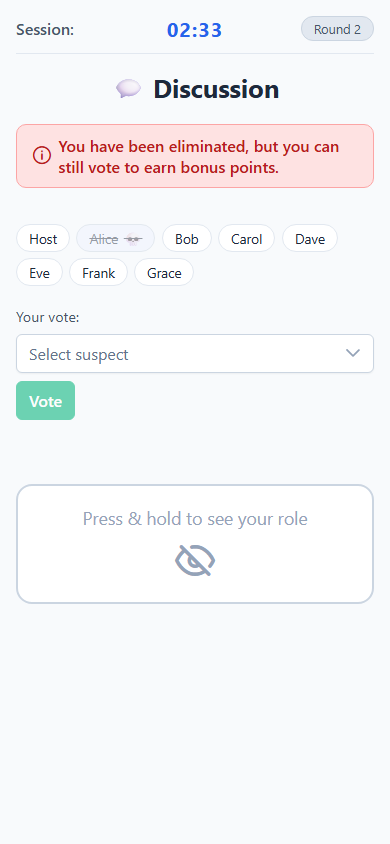
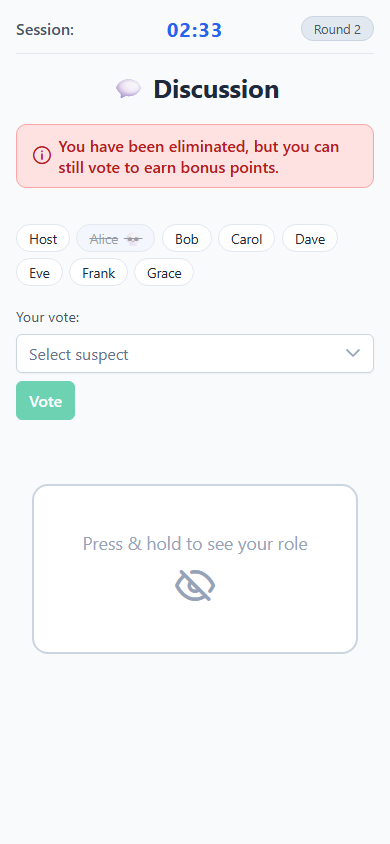
Improve things

diff --git a/frontend/werewolves-app/src/app/components/session/session.spec.ts b/frontend/werewolves-app/src/app/components/session/session.spec.ts
@@ -283,7 +283,8 @@ describe('SessionComponent', () => {
 
       const targets = component.voteTargets;
 
-      expect(targets.length).toBe(2, 'Alice should see exactly 2 options (Bob and Carol)');
+      expect(targets.length).toBe(3, 'Alice should see exactly 3 options (No vote, Bob, Carol)');
+      expect(targets.map(t => t.value)).toContain('');
       expect(targets.map(t => t.value)).toContain('player2');
       expect(targets.map(t => t.value)).toContain('player3');
       expect(targets.map(t => t.value)).not.toContain('player1', 'a player cannot vote for themselves');
@@ -302,7 +303,8 @@ describe('SessionComponent', () => {
 
       const targets = component.voteTargets;
 
-      expect(targets.length).toBe(3, 'non-tied Alice should see all 3 tied candidates');
+      expect(targets.length).toBe(4, 'non-tied Alice should see all 3 tied candidates plus No vote');
+      expect(targets.map(t => t.value)).toContain('');
       expect(targets.map(t => t.value)).toContain('player2');
       expect(targets.map(t => t.value)).toContain('player3');
       expect(targets.map(t => t.value)).toContain('player4');

diff --git a/frontend/werewolves-app/src/app/components/session/session.ts b/frontend/werewolves-app/src/app/components/session/session.ts
@@ -274,9 +274,10 @@ export class SessionComponent implements OnInit, OnDestroy {
         .map(p => ({ label: p.displayName, value: p.playerId }));
     }
 
-    return this.alivePlayers
+    const playerOptions = this.alivePlayers
       .filter(p => p.playerId !== this.playerId && (!candidates || candidates.includes(p.playerId)))
       .map(p => ({ label: p.displayName, value: p.playerId }));
+    return [{ label: '— No vote —', value: '' }, ...playerOptions];
   }
 
   get doneCount(): number {
@@ -375,7 +376,7 @@ export class SessionComponent implements OnInit, OnDestroy {
   }
 
   submitVote(): void {
-    if (!this.selectedVoteTarget) return;
+    if (this.selectedVoteTarget === null) return;
     this.gameService.castVote(this.gameId, this.playerId, this.selectedVoteTarget).subscribe({
       next: () => {
         this.hasVotedThisPhase = true;

diff --git a/frontend/werewolves-app/src/app/components/session/session.scss b/frontend/werewolves-app/src/app/components/session/session.scss
@@ -161,7 +161,7 @@
   background: #1e293b;
   border: 2px solid #334155;
   border-radius: 16px;
-  min-height: 220px;
+  min-height: 170px;
   display: flex;
   align-items: center;
   justify-content: center;
@@ -196,7 +196,7 @@
   }
 
   .role-name {
-    font-size: 2.2rem;
+    font-size: 1.8rem;
     font-weight: 800;
     letter-spacing: 0.05em;
     text-transform: uppercase;
@@ -205,7 +205,7 @@
   }
 
   .skill-name {
-    font-size: 1rem;
+    font-size: 1.25rem;
     color: #a78bfa;
     text-transform: uppercase;
     letter-spacing: 0.05em;
@@ -222,8 +222,9 @@
 }
 
 .role-card-compact {
-  min-height: 120px;
   margin-top: 1.5rem;
+  margin-left: 1rem;
+  margin-right: 1rem;
 }
 
 .ready-section {

diff --git a/frontend/werewolves-app/src/app/models/audio-keys.ts b/frontend/werewolves-app/src/app/models/audio-keys.ts
@@ -38,7 +38,7 @@ export interface AudioClipConfig {
 
 export const PhaseAudio: { [phase: string]: AudioClipConfig[] } = {
   RoleReveal: [
-    { key: AudioKey.RoleReveal, forCreatorOnly: false },
+    { key: AudioKey.RoleReveal, forCreatorOnly: true },
   ],
   NightAnnouncement: [
     { key: AudioKey.NightAnnouncement, forCreatorOnly: false },
@@ -50,7 +50,7 @@ export const PhaseAudio: { [phase: string]: AudioClipConfig[] } = {
     { key: AudioKey.CupidCloseEyes, forCreatorOnly: true },
   ],
   LoverReveal: [
-    { key: AudioKey.LoverReveal, forCreatorOnly: false },
+    { key: AudioKey.LoverReveal, forCreatorOnly: true },
   ],
   SeerTurn: [
     { key: AudioKey.SeerTurn, forCreatorOnly: true },

diff --git a/frontend/werewolves-app/src/app/components/session/session.html b/frontend/werewolves-app/src/app/components/session/session.html
@@ -309,7 +309,7 @@
       <p-button
         label="Vote"
         (onClick)="submitVote()"
-        [disabled]="!selectedVoteTarget"
+        [disabled]="selectedVoteTarget === null"
         styleClass="mt-2">
       </p-button>
     </div>

diff --git a/backend/WerewolvesAPI.Tests/GameServiceTests.cs b/backend/WerewolvesAPI.Tests/GameServiceTests.cs
@@ -420,6 +420,27 @@ public class GameServiceTests
     }
 
     [Fact]
+    public void CastVote_WithEmptyTargetId_DuringDiscussion_ShouldRetractVote()
+    {
+        var game = CreateReadyGame();
+        _gameService.StartGame(game.TournamentCode, game.CreatorId);
+        MarkAllAliveDone(game.TournamentCode); // → WerewolvesMeeting
+        MarkAliveWolvesDone(game.TournamentCode); // → Discussion
+
+        var voter  = game.Players.First(p => p.PlayerId != game.CreatorId);
+        var target = game.Players.First(p => p.PlayerId != voter.PlayerId);
+
+        _gameService.CastVote(game.TournamentCode, voter.PlayerId, target.PlayerId);
+        _gameService.GetGame(game.TournamentCode)!.DayVotes.ContainsKey(voter.PlayerId).Should().BeTrue();
+
+        var (success, error) = _gameService.CastVote(game.TournamentCode, voter.PlayerId, string.Empty);
+
+        success.Should().BeTrue();
+        error.Should().BeNull();
+        _gameService.GetGame(game.TournamentCode)!.DayVotes.ContainsKey(voter.PlayerId).Should().BeFalse();
+    }
+
+    [Fact]
     public void CastVote_DuringWerewolvesTurn_AllWolvesVote_AutoAdvancesPhase()
     {
         // This test intentionally does NOT call ForceAdvancePhase after CastVote.

diff --git a/backend/WerewolvesAPI/Services/GameService.cs b/backend/WerewolvesAPI/Services/GameService.cs
@@ -314,6 +314,10 @@ public class GameService : IGameService
 
         var voter = game.Players.FirstOrDefault(p => p.PlayerId == voterId);
         if (voter == null) return (false, "Voter not found");
+
+        if (string.IsNullOrEmpty(targetId))
+            return RetractVote(game, voterId);
+
         var target = game.Players.FirstOrDefault(p => p.PlayerId == targetId);
         if (target == null) return (false, "Target not found");
 
@@ -351,6 +355,19 @@ public class GameService : IGameService
         {
             return (false, "Voting is not open in this phase");
         }
+
+        BumpVersion(game);
+        return (true, null);
+    }
+
+    private (bool Success, string? Error) RetractVote(GameState game, string voterId)
+    {
+        if (game.Phase == GamePhase.Discussion || game.Phase == GamePhase.TiebreakDiscussion)
+            game.DayVotes.TryRemove(voterId, out _);
+        else if (game.Phase == GamePhase.WerewolvesTurn)
+            game.NightVotes.TryRemove(voterId, out _);
+        else
+            return (false, "Voting is not open in this phase");
 
         BumpVersion(game);
         return (true, null);

diff --git a/docs-src/docs/screens.md b/docs-src/docs/screens.md
@@ -74,7 +74,15 @@ Cupid selects two players from the alive-players list and confirms. The lovers a
 
 ---
 
-### 7. Lover Reveal *(Round 1 only, if Cupid is enabled)*
+### 7. Day Announcement
+
+Once the night phase ends, the app transitions to day with a brief full-screen announcement. Everyone opens their eyes and the app switches to the day theme while the narration plays.
+
+![Day Announcement](screenshots/28-the-night-has-ended.png)
+
+---
+
+### 8. Lover Reveal *(Round 1 only, if Cupid is enabled)*
 
 Everyone opens their eyes and checks their role card to see if they are one of the lovers.
 
@@ -84,9 +92,9 @@ If a player is a lover, their partner's name appears on the card when held down.
 
 ---
 
-### 8. Day — Discussion & Voting *(Round 1: follows directly after the first night)*
+### 9. Day — Discussion & Voting
 
-After the first night — once the Lover Reveal has concluded (or the Werewolves Meeting if Cupid is not enabled) — the first day discussion begins immediately. No one has been killed yet, so there is no victims announcement. Players discuss freely, sharing suspicions and defending themselves. Every player — including those already eliminated — casts one vote for who they believe is a werewolf. A countdown timer governs the discussion period.
+Players discuss freely, sharing suspicions and defending themselves. Every player — including those already eliminated — casts one vote for who they believe is a werewolf. A countdown timer governs the discussion period.
 
 Each player's current vote is shown live on their chip as an arrow (e.g. **Alice → Bob**), making alliances and suspicions immediately visible and fuelling the discussion.
 
@@ -101,7 +109,7 @@ Eliminated players see a notice explaining they have been eliminated but can sti
 
 ---
 
-### 9. Day — Tiebreak Discussion *(if a tie occurs)*
+### 10. Day — Tiebreak Discussion *(if a tie occurs)*
 
 If two or more players are tied for most votes, a second short discussion round takes place. Only the tied candidates can be voted for this time.
 
@@ -111,7 +119,7 @@ If the tiebreak vote is also tied, no elimination occurs and the game moves stra
 
 ---
 
-### 10. Day Elimination
+### 11. Day Elimination
 
 The player with the most votes is eliminated and their role is publicly revealed to everyone.
 
@@ -121,15 +129,20 @@ Win conditions are checked immediately after each elimination. If the Hunter was
 
 ---
 
-### 11. Day Announcement
+### 12. Hunter Turn *(triggered on elimination)*
 
-After the day's elimination (or after the first night directly into day from Round 1), a brief full-screen transition announces the new day. Players open their eyes and the app switches back to the day theme while the narration plays.
+The Hunter phase activates whenever the Hunter is eliminated — either by werewolves at night or by the village vote during the day. The Hunter gets one last action: shooting a player of their choice.
 
-![Day Announcement](screenshots/28-the-night-has-ended.png)
+<div style="display:flex;gap:1rem;align-items:flex-start">
+  <figure style="flex:1;margin:0"><figcaption><strong>Non-Hunter view</strong></figcaption><img src="../screenshots/16-night-hunter-turn-non-hunter.png" alt="Hunter Turn — waiting"></figure>
+  <figure style="flex:1;margin:0"><figcaption><strong>Hunter view</strong></figcaption><img src="../screenshots/17-night-hunter-turn-hunter.png" alt="Hunter Turn — Hunter"></figure>
+</div>
+
+The selected player is immediately eliminated. Win conditions are then re-checked.
 
 ---
 
-### 12. Night — Werewolves Turn *(Round 2 onwards)*
+### 13. Night — Werewolves Turn *(Round 2 onwards)*
 
 The app narrates "close your eyes". Villagers see a waiting screen. Werewolves silently agree on a victim and confirm their vote.
 
@@ -142,7 +155,7 @@ The werewolf screen shows a dropdown of all living non-wolf players. Once every 
 
 ---
 
-### 13. Night — Seer Turn *(if alive and enabled)*
+### 14. Night — Seer Turn *(Round 2 onwards, if alive and enabled)*
 
 The Seer wakes up and inspects one player. The result reveals whether that player is a Werewolf or a Villager, and shows their skill if they have one.
 
@@ -155,7 +168,7 @@ The Seer receives the result immediately on their screen. This information is th
 
 ---
 
-### 14. Night — Witch Turn *(if alive and enabled)*
+### 15. Night — Witch Turn *(Round 2 onwards, if alive and enabled)*
 
 The Witch wakes up last. She is shown tonight's werewolf victim and can use either, both, or none of her potions.
 
@@ -172,19 +185,6 @@ The Witch wakes up last. She is shown tonight's werewolf victim and can use eith
 | ☠ Poison | Eliminates any living player of the Witch's choice |
 
 Once a potion is used it is gone for the rest of the game. The "Do nothing" option advances the phase without using either.
-
----
-
-### 15. Night — Hunter Turn *(triggered on elimination)*
-
-The Hunter phase activates whenever the Hunter is eliminated — either by werewolves at night or by the village vote during the day. The Hunter gets one last action: shooting a player of their choice.
-
-<div style="display:flex;gap:1rem;align-items:flex-start">
-  <figure style="flex:1;margin:0"><figcaption><strong>Non-Hunter view</strong></figcaption><img src="../screenshots/16-night-hunter-turn-non-hunter.png" alt="Hunter Turn — waiting"></figure>
-  <figure style="flex:1;margin:0"><figcaption><strong>Hunter view</strong></figcaption><img src="../screenshots/17-night-hunter-turn-hunter.png" alt="Hunter Turn — Hunter"></figure>
-</div>
-
-The selected player is immediately eliminated. Win conditions are then re-checked.
 
 ---
 
